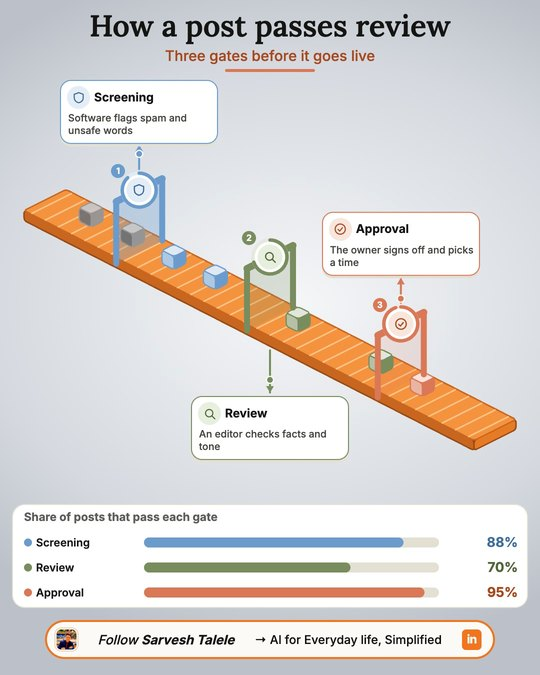
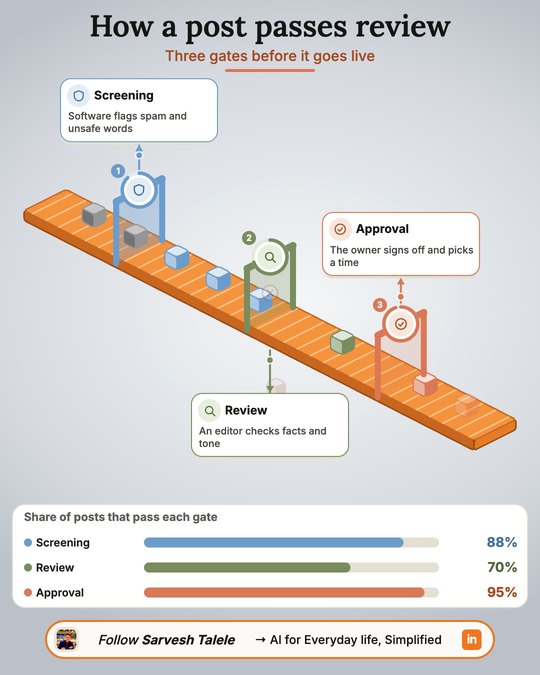
GIFs show the whole diagram from frame 0; only the flow moves (3.1.0)
- Rendering starts where each template's reveal ends; the GIF is exactly
  one loop (at least 6 s) with no fade
- Every repeating motion (flow dots, card float, grid pulses, conveyor,
  orbit spin, funnel beads) snaps to a period that divides the loop
- Chart GIF: marching dashes, travelling brightness wave, pulsing dots
- e2e checks frame 0 against the finished still and the loop seam
- All GIF and design samples re-rendered through the layout gates

diff --git a/skills/explainer-studio/engine/gif_conveyor.js b/skills/explainer-studio/engine/gif_conveyor.js
@@ -2,7 +2,7 @@
 // boxes ride the belt, turn the gate's colour when they pass, and the share that fails drops off the belt at that gate. Everything is a pure function of time.
 // Dataviz choices (animated-infographic practice): staged reveal, count-up numbers, progress ring + bar for the same value, motion that encodes data (who drops off), one accent per gate.
 import { C, E, box, tx, enter, seg, eo, icon, measure } from './kit.js';
-import { PAL, scene, header, footer, finish, reveal, flow, node, layer, TOP } from './gif_common.js';
+import { PAL, scene, header, footer, finish, reveal, flow, node, layer, TOP, per } from './gif_common.js';
 import { mix, uniformSub } from './gif_3d.js';
 import { svgNS, roundPts } from './kit.js';
 
@@ -32,7 +32,7 @@ export function buildConveyor(stage, D) {
   poly(belt, [sa, ea, eb, sb], '#F5923E', '#C8651F');
   const rollers = []; for (let i = 0; i < 34; i++) rollers.push(el(belt, 'line', { stroke: '#FFC48A', 'stroke-width': 3, 'stroke-linecap': 'round' }));
   const ROLL = 26;
-  S.A.push(u => { belt.style.opacity = String(seg(u, .2, .7)); rollers.forEach((r, i) => { const s = ((i * ROLL + u * 34) % (34 * ROLL)) / (34 * ROLL), p = at(s); r.setAttribute('x1', p[0] + O[0] * .94); r.setAttribute('y1', p[1] + O[1] * .94); r.setAttribute('x2', p[0] - O[0] * .94); r.setAttribute('y2', p[1] - O[1] * .94); }); });
+  S.A.push(u => { belt.style.opacity = String(seg(u, .2, .7)); rollers.forEach((r, i) => { const s = ((i * ROLL + u * 34 * ROLL / per(S, ROLL)) % (34 * ROLL)) / (34 * ROLL), p = at(s); r.setAttribute('x1', p[0] + O[0] * .94); r.setAttribute('y1', p[1] + O[1] * .94); r.setAttribute('x2', p[0] - O[0] * .94); r.setAttribute('y2', p[1] - O[1] * .94); }); });
   S.at(.7);
   // light curtains at the gates (pulse when a box passes), drawn under the boxes
   const curtains = G.map((gt, i) => { const p = at(fr(i)), bt = [p[0] + O[0] + 4, p[1] + O[1] + 6], ft = [p[0] - O[0] - 4, p[1] - O[1] + 10], cu = poly(S.svg, [bt, ft, [ft[0], ft[1] - POST], [bt[0], bt[1] - POST]], PAL[gt.group].bd, null); cu.style.opacity = '0'; return cu; });
@@ -44,12 +44,12 @@ export function buildConveyor(stage, D) {
   S.A.push(u => {
     pulse.fill(0);
     bx.forEach((g, j) => {
-      const f = (((u * SPD) + j / NCUBE) % 1), pos = .04 + f * .92, rk = RANK[j], bad = failAt(rk), rej = bad >= 0 && pos > fr(bad);
+      const f = (((u / per(S, 1 / SPD)) + j / NCUBE) % 1), pos = .04 + f * .92, rk = RANK[j], bad = failAt(rk), rej = bad >= 0 && pos > fr(bad);
       const ps = G.filter((_, i) => pos > fr(i) && (bad < 0 || i < bad)).length;                       // gates passed (a failed box never passes its failing gate)
       G.forEach((_, i) => { pulse[i] = Math.max(pulse[i], Math.exp(-Math.pow((pos - fr(i)) / .035, 2))); });
       const edge = Math.min(1, f * 14) * Math.min(1, (1 - f) * 14) * seg(u, .9, 1.3);
       const m = marks[j]; m.replaceChildren(); m.style.opacity = '0';
-      if (!rej) { const p = at(pos); cube(g, [p[0], p[1] - 20 - Math.sin((u * 2 + j) * 3) * 1.2], ps ? colors[ps - 1] : start, 24, edge); return; }
+      if (!rej) { const p = at(pos); cube(g, [p[0], p[1] - 20 - Math.sin(2 * Math.PI * u / per(S, 1.05) + j * 6) * 1.2], ps ? colors[ps - 1] : start, 24, edge); return; }
       const k = seg(pos, fr(bad), fr(bad) + .075), q = at(fr(bad) + k * .075), fall = k * k;                // falls off the front edge: slides out, drops, fades
       cube(g, [q[0] - 54 * k, q[1] - 20 + 34 * k + 120 * fall], BAD, 24 * (1 - .25 * k), edge * (1 - seg(k, .55, 1)));
       const kk = seg(k, 0, .35) * (1 - seg(k, .6, 1)); if (kk > 0) { const c = at(fr(bad)); m.style.opacity = String(kk); el(m, 'circle', { cx: c[0], cy: c[1] - 44, r: 15, fill: '#fff', stroke: BAD, 'stroke-width': 3.5 }); el(m, 'path', { d: `M${c[0] - 6} ${c[1] - 50} l12 12 M${c[0] + 6} ${c[1] - 50} l-12 12`, stroke: BAD, 'stroke-width': 3.5, 'stroke-linecap': 'round', fill: 'none' }); }

diff --git a/skills/explainer-studio/engine/gif_chart.js b/skills/explainer-studio/engine/gif_chart.js
@@ -1,8 +1,8 @@
 // Template "chart": any of the 21 chart slides (engine/charts.js) as an animated GIF. The chart is drawn once in the GIF frame, then revealed:
 // every block fades and rises in reading order (staggering), stroked lines draw themselves (path tracing), filled shapes fade in, and the
-// finished chart holds before the loop. gif.chart = { type, ...the same fields as the carousel slide } (validated by the same limits).
+// finished chart loops: since v3.1 the whole chart is visible from frame 0 and only the flow moves. gif.chart = { type, ...the same fields as the carousel slide } (validated by the same limits).
 import { C, E, enter, draw, seg, eo, fitSize, measure } from './kit.js';
-import { PAL, scene, header, footer, finish, TOP, BOTTOM } from './gif_common.js';
+import { PAL, scene, header, footer, finish, per, TOP, BOTTOM } from './gif_common.js';
 import { charts } from './charts.js';
 
 const GROUPS = ['blue', 'clay', 'green'];
@@ -18,14 +18,16 @@ export function buildChart(stage, D) {
   const marks = svgs.flatMap(s => [...s.querySelectorAll('path,circle,ellipse')]);
   const pos = e => { const r = e.getBoundingClientRect(); return r.top * 2 + r.left * .4; };
   const all = [...parts.map(e => ({ e, k: 'div', p: pos(e) })), ...marks.map(e => ({ e, k: e.tagName === 'path' && e.getAttribute('fill') === 'none' && !e.getAttribute('stroke-dasharray') ? 'line' : 'shape', p: pos(e) }))].sort((a, b) => a.p - b.p);
-  const t0 = .7, step = Math.min(.09, 3.2 / Math.max(1, all.length));
+  // flow-only motion on the finished chart: marching dashes on lines, a travelling brightness wave on ribbons and wedges, pulses on dots
+  const P1 = per(S, 1.5), P2 = per(S, 3);
   all.forEach((it, i) => {
-    const t = t0 + i * step;
-    if (it.k === 'div') S.A.push(u => enter(it.e, u, t, { dy: 18, sc: .96, d: .45 }));
-    else if (it.k === 'line') { it.e.style.opacity = '0'; S.A.push(u => draw(it.e, eo(seg(u, t, t + .6)))); }
-    else { it.e.style.opacity = '0'; S.A.push(u => { it.e.style.opacity = String(eo(seg(u, t, t + .4))); }); }
+    const e = it.e, ph = i / Math.max(1, all.length);
+    if (it.k === 'line') { const L = e.getTotalLength ? e.getTotalLength() : 0; if (L < 40) return; const o = e.cloneNode(); o.setAttribute('stroke', '#fff'); o.setAttribute('stroke-width', Math.max(2, (+e.getAttribute('stroke-width') || 3) * .45)); o.setAttribute('stroke-dasharray', '6 22'); o.setAttribute('opacity', '.75'); e.after(o);
+      S.A.push(u => o.setAttribute('stroke-dashoffset', String((-(u / P1) * 28) % 28))); }
+    else if (it.k === 'shape' && e.tagName === 'path') { const base = +(e.getAttribute('fill-opacity') || 1); if (base >= 1) return;
+      S.A.push(u => { const w = .5 + .5 * Math.sin(2 * Math.PI * (u / P2 - ph)); e.setAttribute('fill-opacity', (base + .2 * w).toFixed(3)); }); }
+    else if (e.tagName === 'circle') { e.style.transformBox = 'fill-box'; e.style.transformOrigin = 'center'; S.A.push(u => { e.style.transform = `scale(${(1 + .12 * Math.max(0, Math.sin(2 * Math.PI * (u / P2 - ph)))).toFixed(3)})`; }); }
   });
-  S.at(t0 + all.length * step + .8);
   footer(S);
   return finish(S);
 }

diff --git a/skills/explainer-studio/engine/gif_common.js b/skills/explainer-studio/engine/gif_common.js
@@ -9,7 +9,7 @@ export const PAL = {
 };
 export function scene(stage, D) {
   const root = E(stage, 'scene'); root.style.display = 'block';
-  const S = { D, g: D.gif, root, A: [], B: [], T: 0 };
+  const S = { D, g: D.gif, root, A: [], B: [], T: 0, LOOP: Math.max(6, Math.ceil(D.gif.hold ?? 6)) };   // one seamless loop; every repeating motion divides it
   // (the drifting grid and orbs were removed: they made the GIF 640px and 6 MB, against 900px and 4.6 MB without them)
   S.svg = svgLayer(root, W, H);
   S.at = t => { S.T = Math.max(S.T, t); return t; };
@@ -38,13 +38,14 @@ export function footer(S) {
   const bar = cta(S.root, 'gif-cta', S.D.brand, { x: 90, y: 1240, w: 900, h: 78, size: 26, bw: 4 });
   S.A.push(u => { bar.style.opacity = String(eo(seg(u, .25, .8))); });
 }
-export function finish(S, hold = 5.4) {
-  const DUR = Math.round((S.T + (S.g.hold ?? hold)) * 10) / 10;
-  const t0 = S.T;   // floating starts once the last reveal has finished
-  return { DUR, render(u) { S.A.forEach(f => f(u));
-      const k = clamp((u - t0) / 1.2);
-      S.B.forEach((b, i) => { b.style.translate = `0px ${Math.sin(u * 1.5 + i * 1.3) * 3.2 * k}px`; });
-      S.root.style.opacity = String(Math.min(1, 1 - seg(u, DUR - FADE, DUR))); } };
+// v3.1: the GIF shows the complete diagram from the first frame; the only motion is flow (dots on connectors, pulses, belts, spins).
+// Every template still builds its reveal timeline, but rendering starts where that timeline ends (t0), and lasts exactly one loop.
+export const per = (S, p) => S.LOOP / Math.max(1, Math.round(S.LOOP / p));   // the nearest period that divides the loop, so frame N meets frame 0
+export function finish(S) {
+  const t0 = Math.max(S.T, 1.2) + .05, DUR = S.LOOP, fp = per(S, 4.2);   // header and CTA finish entering by 1 s
+  return { DUR, render(u) { const v = t0 + u; S.A.forEach(f => f(v));
+      S.B.forEach((b, i) => { b.style.translate = `0px ${(Math.sin(2 * Math.PI * u / fp + i * 1.3) * 3.2).toFixed(2)}px`; });
+      S.root.style.opacity = '1'; } };
 }
 export const layer = S => svgLayer(S.root, W, H);
 export function reveal(S, el, t0, o = {}) { S.at(t0 + (o.d ?? .45)); S.A.push(u => enter(el, u, t0, { dy: 14, sc: .95, pop: true, d: .45, ...o })); }
@@ -54,7 +55,7 @@ export function flow(S, d, color, { t0, dur = .55, w = 4.5, head = 15, svg, dot 
   svg = svg || S.svg;   // pass a layer created after a filled band so the arrow shows above the band but below the nodes
   const p = path(svg, d, { stroke: color, w }), th = tri(svg, color), L = p.getTotalLength();
   p.style.opacity = '0';
-  const n = Math.max(1, Math.round(L / 230)), speed = clamp(L * .6, 55, 240);
+  const n = Math.max(1, Math.round(L / 230)), speed = L / per(S, L / clamp(L * .6, 55, 240));   // one lap divides the loop
   const dots = Array.from({ length: n }, () => { const c = circ(svg, -50, -50, dot, { fill: color, stroke: C.bg, w: dot > 5 ? 2.5 : 2 }); c.style.opacity = '0'; return c; });
   S.at(t0 + dur);
   S.A.push(u => {

diff --git a/skills/explainer-studio/engine/gif_grid.js b/skills/explainer-studio/engine/gif_grid.js
@@ -1,6 +1,6 @@
 // Template "grid": a poster of numbered cards, each with a small diagram. Cards pop in one by one, then each diagram's highlight keeps pulsing.
 import { C, svgLayer } from './kit.js';
-import { scene, header, footer, finish, reveal, W, H } from './gif_common.js';
+import { scene, header, footer, finish, reveal, W, H, per } from './gif_common.js';
 import { legend, cards } from './motifs.js';
 
 export function buildGrid(stage, D) {
@@ -10,7 +10,7 @@ export function buildGrid(stage, D) {
   const list = cards(S.root, svg, G.cards, { x, y: y0 + (hasLg ? 56 : 0), w, h: 1214 - y0 - (hasLg ? 56 : 0) }), step = list.length > 6 ? .5 : .7;
   list.forEach((c, i) => { reveal(S, c.el, .5 + i * step, { dy: 18, sc: .92 }); S.B.push(c.el); });
   const tEnd = .5 + list.length * step;
-  list.forEach((c, i) => c.acc.forEach(a => { a.style.transformBox = 'fill-box'; a.style.transformOrigin = 'center'; S.A.push(u => { const k = Math.max(0, u - tEnd) ; a.style.transform = `scale(${1 + .16 * Math.max(0, Math.sin(k * 3 + i))})`; }); }));
+  list.forEach((c, i) => c.acc.forEach(a => { a.style.transformBox = 'fill-box'; a.style.transformOrigin = 'center'; S.A.push(u => { const k = Math.max(0, u - tEnd) ; a.style.transform = `scale(${1 + .16 * Math.max(0, Math.sin(2 * Math.PI * k / per(S, 2.1) + i))})`; }); }));
   footer(S);
   return finish(S);
 }

diff --git a/skills/explainer-studio/engine/gif_orbit.js b/skills/explainer-studio/engine/gif_orbit.js
@@ -1,6 +1,6 @@
 // Template "orbit": a glossy core with three tilted rings (CSS 3D) and 4-6 flat cards around it; flowing-dot arrows run from the core to every card.
 import { C, E, box, tx, enter, seg, eo, fitSize, measure } from './kit.js';
-import { PAL, scene, header, footer, finish, reveal, flow, node, layer, TOP, BOTTOM } from './gif_common.js';
+import { PAL, scene, header, footer, finish, reveal, flow, node, layer, TOP, BOTTOM, per } from './gif_common.js';
 import { rayRect, mix, uniformSub } from './gif_3d.js';
 
 export function buildOrbit(stage, D) {
@@ -24,7 +24,7 @@ export function buildOrbit(stage, D) {
   if (sh) tx(core, 'hub-s', O.hub.sub, { x: 32, y: y0 + th + 5, w: tw, h: sh + 6, size: ss, weight: 600, color: '#FFF3EA', align: 'center', wrap: true, lh: 1.1 });
   S.A.push(u => {
     enter(core, u, .4, { sc: .7, dy: 0, pop: true, d: .7 });
-    rings.forEach(({ w, spin, k }) => { w.style.opacity = String(seg(u, .9 + k * .15, 1.4 + k * .15)); spin.style.transform = `rotate(${(u * 70 + k * 120) % 360}deg)`; });
+    rings.forEach(({ w, spin, k }) => { w.style.opacity = String(seg(u, .9 + k * .15, 1.4 + k * .15)); spin.style.transform = `rotate(${(u * 360 / per(S, 5.1) + k * 120) % 360}deg)`; });
   });
   S.at(1.8);
   const cs = uniformSub(N, { w: CW - 28, h: CH - 62 - 10, max: 20, min: 15 }); let t = 1.9;

diff --git a/skills/explainer-studio/engine/gif_funnel.js b/skills/explainer-studio/engine/gif_funnel.js
@@ -2,7 +2,7 @@
 // Glowing beads fall through from the opening; at every stage some peel away and drop out in proportion to the loss, so the narrowing is felt as motion.
 // Text stays in flat cards on the right, tied to the drum by a leader line (the 3D is decoration, as in the other 3D templates).
 import { C, E, box, tx, enter, seg, eo, icon, fitSize, measure, svgNS, circ } from './kit.js';
-import { PAL, scene, header, footer, finish, reveal, TOP, BOTTOM } from './gif_common.js';
+import { PAL, scene, header, footer, finish, reveal, TOP, BOTTOM, per } from './gif_common.js';
 import { mix } from './gif_3d.js';
 
 const el = (p, n, a) => { const e = document.createElementNS(svgNS, n); for (const k in a) e.setAttribute(k, a[k]); p.appendChild(e); return e; };
@@ -62,7 +62,7 @@ export function buildFunnel(stage, D) {
     const f = hash(j, 7) * 100; let fate = n - 1; for (let i = 0; i < n; i++) if (f > cum[i]) { fate = Math.max(0, i - 1); break; }
     beads.push({ c: circ(S.svg, -50, -50, 9, { fill: '#fffbe6', stroke: C.clay, w: 3 }), fate, ph: j / NB, sx: (hash(j, 3) - .5) * .8, dir: hash(j, 11) > .5 ? 1 : -1 });
   }
-  const yTop = Y0 - 20, yBot = YEND + 28, CYCLE = 3.6;
+  const yTop = Y0 - 20, yBot = YEND + 28, CYCLE = per(S, 3.6);
   S.A.push(u => {
     const run = u - startT;
     beads.forEach(b => {

diff --git a/skills/explainer-studio/tests/e2e/run_all.py b/skills/explainer-studio/tests/e2e/run_all.py
@@ -20,6 +20,18 @@ def project(work, fixture, story=None):
     if story is not None: json.dump(story, open(os.path.join(work, 'story.json'), 'w', encoding='utf-8'), indent=1)
     else: shutil.copy(os.path.join(FX, fixture + '.story.json'), os.path.join(work, 'story.json'))
 
+def gif_motion(work):
+    """v3.1 GIF rules: the whole diagram is on screen at frame 0 (it matches the still PNG), and the last frame flows into the first."""
+    from PIL import Image, ImageChops
+    g = next(iter(glob.glob(os.path.join(work, 'out', '*.gif'))), None); png = next(iter(glob.glob(os.path.join(work, 'out', '*-linkedin.png'))), None)
+    if not g or not png: return {'complete_at_frame_0': False, 'seamless_loop': False}
+    im = Image.open(g); n = getattr(im, 'n_frames', 1); im.seek(0); f0 = im.convert('RGB'); im.seek(n - 1); fl = im.convert('RGB')
+    still = Image.open(png).convert('RGB').resize(f0.size)
+    def diff(a, b):
+        d = ImageChops.difference(a, b).convert('L').point(lambda p: 255 if p > 48 else 0); return 100 * sum(d.histogram()[255:]) / (d.width * d.height)
+    a, b = diff(f0, still), diff(f0, fl)
+    return {'frames': n, 'frame0_vs_still_pct': round(a, 2), 'first_vs_last_pct': round(b, 2), 'complete_at_frame_0': a < 6, 'seamless_loop': b < 4}
+
 def gates(work):
     rc, log, _ = sh([PY, ST, 'review', work], 600)
     m = re.search(r'(\d+)%', log); fails = [l.strip() for l in log.splitlines() if re.search(r'FAIL|false', l)][:8]
@@ -43,7 +55,8 @@ def run(out, only):
     if 'gif' in only:
         for fx in ('funnel', 'https', 'chart'):
             w = os.path.join(wk, 'gif-' + fx); project(w, fx); rc, log, s = sh([PY, ST, 'build', w, '--artifacts', 'gif'])
-            g = gates(w); rec(f'GIF ({fx})', rc == 0 and 'BUILD COMPLETE' in log and (g['review_pct'] or 0) == 100, s, collect(w, os.path.join(out, 'gif', fx), ['*.gif', '*-linkedin.png', 'review/*.png']), **g)
+            g = gates(w); m = gif_motion(w)
+            rec(f'GIF ({fx})', rc == 0 and 'BUILD COMPLETE' in log and (g['review_pct'] or 0) == 100 and m['complete_at_frame_0'] and m['seamless_loop'], s, collect(w, os.path.join(out, 'gif', fx), ['*.gif', '*-linkedin.png', 'review/*.png']), motion=m, **g)
     if 'carousel' in only:
         w = os.path.join(wk, 'carousel'); project(w, 'carousel'); rc, log, s = sh([PY, ST, 'build', w, '--artifacts', 'carousel', '--format', 'both'])
         rc2, e2e, _ = sh([PY, ST, 'e2e', w], 900); g = gates(w)
@@ -76,7 +89,8 @@ def report(out, R):
     L = ['# explainer-studio: end-to-end showcase', '', f"Run {time.strftime('%Y-%m-%d %H:%M')} on this computer. Every file below was produced by the real engine; every check is automatic.", '',
          '| Media | Result | Time | Review gates | Notes |', '|---|---|---|---|---|']
     for r in R:
-        note = '; '.join(x for x in [r.get('speech', ''), r.get('verified', ''), ' / '.join(r.get('e2e') or [])[:160]] if x)
+        mo = r.get('motion'); mtxt = f"frame 0 vs still {mo['frame0_vs_still_pct']}%, loop seam {mo['first_vs_last_pct']}%" if mo and 'frames' in mo else ''
+        note = '; '.join(x for x in [mtxt, r.get('speech', ''), r.get('verified', ''), ' / '.join(r.get('e2e') or [])[:160]] if x)
         L.append(f"| {r['media']} | {'PASS' if r['ok'] else '**FAIL**'} | {r['seconds']} s | {'' if r.get('review_pct') is None else str(r['review_pct']) + '%'} | {note} |")
     for r in R:
         L += ['', f"## {r['media']}", ''] + [f"- [{os.path.basename(f)}]({f})" for f in r['files']]

diff --git a/README.md b/README.md
@@ -7,7 +7,7 @@
 Ranked GIF diagrams · chart carousels · narrated Reels with designed covers · verified walkthrough videos · LinkedIn posts
 
 [![CI](https://github.com/sarveshtalele/content-creation/actions/workflows/ci.yml/badge.svg)](https://github.com/sarveshtalele/content-creation/actions/workflows/ci.yml)
-![Version](https://img.shields.io/badge/version-3.0.0-D97757)
+![Version](https://img.shields.io/badge/version-3.1.0-D97757)
 ![Python](https://img.shields.io/badge/python-3.11%20%7C%203.12%20%7C%203.13-3776AB?logo=python&logoColor=white)
 ![Node](https://img.shields.io/badge/node-%E2%89%A520-339933?logo=nodedotjs&logoColor=white)
 ![Agents](https://img.shields.io/badge/agents-Claude%20Code%20%7C%20Codex%20%7C%20Antigravity-141413)
@@ -42,7 +42,7 @@ Ranked GIF diagrams · chart carousels · narrated Reels with designed covers ·
 
 | Media | Output | Highlights |
 |---|---|---|
-| **GIF** | 1080x1350 looping GIF (under 5 MB) + still PNG | 16 diagram templates (funnel, pipeline, orbit, exploded layers, skyline, conveyor, card grid…) plus an **animated chart** template that turns any of the 21 charts into a GIF, all **ranked for your content**; you choose |
+| **GIF** | 1080x1350 looping GIF (under 5 MB) + still PNG | 16 templates (funnel, pipeline, orbit, exploded layers, skyline, conveyor, card grid… and an **animated chart** template for any of the 21 charts), **ranked for your content**; you choose. The complete diagram is on screen from the first frame; only the flow moves (dots on connectors, pulses, belts), in a seamless loop |
 | **Carousel** | PDF + one PNG per slide + first-comment text | 5 cover layouts and over 30 slide types, including **21 chart slides**: lollipop, dumbbell, slope, bullet, radar, sankey, alluvial, network, arc, flowchart, donut, waffle, treemap, sunburst, mind map, decision tree, timeline, Gantt, waterfall, line/area, heatmap |
 | **Reel** | 1080x1920 MP4 with offline narration and subtitles | Claude light theme by default, kinetic word-by-word hook, masked scene reveals, camera push, animated counters, particles on connectors |
 | **Reel cover** | 1080x1920 PNG per layout + poster JPG | Designed (not a video frame): hero, question, number, split, face; safe for the profile-grid crop and the Reels buttons |

diff --git a/docs/TEMPLATES.md b/docs/TEMPLATES.md
@@ -2,6 +2,9 @@
 
 All templates draw on a fixed 1080x1350 canvas. Content lives between y=150 (below the title) and y=1216 (above the footer). Run `python3 scripts/studio.py pick DIR` to get the best fit and a fill-in skeleton, or `studio.py spec` for every limit.
 
+
+**Motion rule (v3.1):** every GIF shows the complete diagram from the first frame. The only motion is flow (dots travelling along connectors, pulses, belts, spins), and each GIF is exactly one seamless loop of at least 6 seconds. `tests/e2e/run_all.py` checks both: frame 0 matches the finished still, and the last frame flows into the first.
+
 | Template | Shape of the source | Block in story.json |
 |---|---|---|
 | `pipeline` | ordered steps, workflow | `gif.pipeline{start, stages[2-4]{label, group, nodes[2-4]}, result}` |
@@ -18,7 +21,7 @@ All templates draw on a fixed 1080x1350 canvas. Content lives between y=150 (bel
 | `tower` | a building of floors, each room a small scene | `gif.tower{hub{title}, floors[3-5]{title, sub, icon, group, scene}}` (top floor first) |
 | `skyline` | a ranking or size comparison | `gif.skyline{buildings[3-5]{title, sub, value, size 1-10, icon, group}}` (value is shown on the roof, e.g. `82%`) |
 | `conveyor` | items passing through gates | `gif.conveyor{tally, gates[3-4]{title, sub, icon, group, stat{value, pct}}}` (first gate first; `stat` is the share that passes the gate, taken from the source, e.g. `88%` / `88`) |
-| `chart` | any chart from the carousel library, animated (blocks rise in order, lines draw, shapes fade) | `gif.chart{type, ...the fields of that chart slide (docs/CAROUSEL.md)}`; data charts need the source's figures |
+| `chart` | any chart from the carousel library, animated (marching dashes on lines, a travelling brightness wave on ribbons and wedges, pulsing dots) | `gif.chart{type, ...the fields of that chart slide (docs/CAROUSEL.md)}`; data charts need the source's figures |
 | `funnel` | stages that narrow (conversion, filtering) | `gif.funnel{stages[3-5]{title, sub, value, pct, icon, group}}`; pct is the share of the first stage |
 
 `group` is a colour: `blue`, `green`, `clay` or `sand`. Icons come from `studio.py spec --icons`. Every text must reuse the source's words (checked).

diff --git a/CHANGELOG.md b/CHANGELOG.md
@@ -1,5 +1,11 @@
 # Changelog
 
+## 3.1.0
+
+- **GIFs show the whole diagram from the first frame**; the only motion is flow (dots on connectors, pulses, belts, spins). Every repeating motion snaps to a period that divides the loop, so GIFs loop seamlessly with no fade. New end-to-end checks: frame 0 matches the finished still, and the loop seam differs by less than 4% of pixels.
+- **Animated chart GIF motion**: marching dashes on lines, a travelling brightness wave on ribbons and wedges, pulsing dots.
+- Merged the outputs-folder change from `main`: every build is also copied to `./outputs/<slug>/`.
+
 ## 3.0.0
 
 - **Animated chart GIF** (`gif.template: chart`): any of the 21 charts as a GIF, with blocks revealed in reading order, lines tracing in and shapes fading in. Sankey layout: end nodes share the last column, columns are ordered by their inputs, ribbons are filled bands that do not cross, and labels have a halo.
